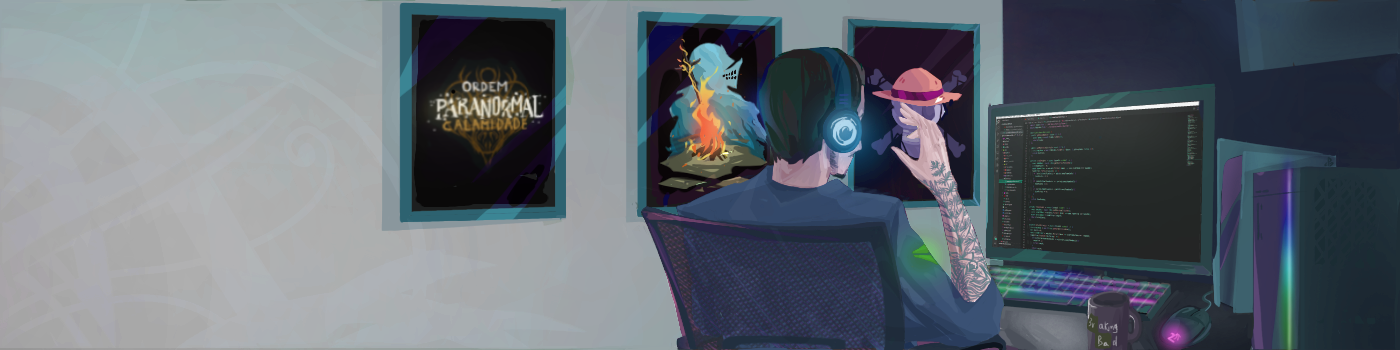
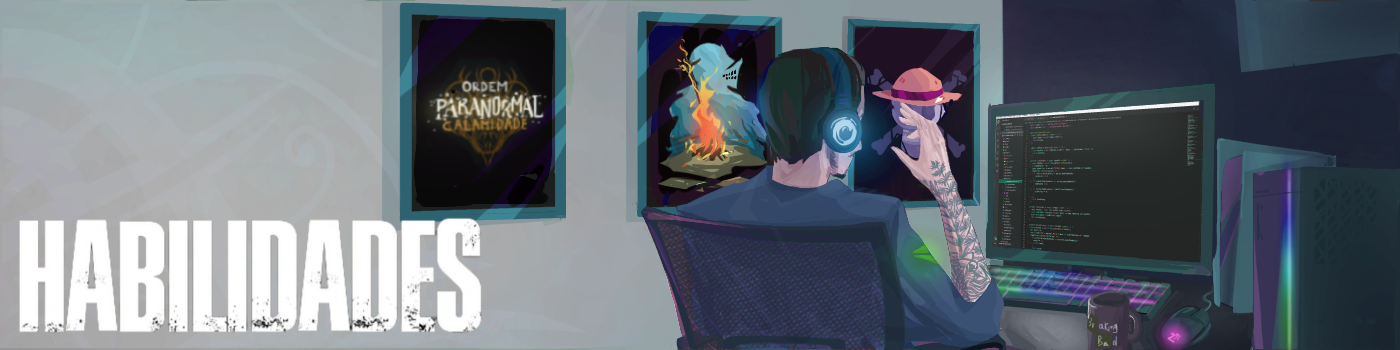
Alteração de titulos e navbar para inglês

Changed region(s): [[0.0, 0.6, 0.3686, 0.9714]]

diff --git a/src/Components/SoftCards.jsx b/src/Components/SoftCards.jsx
@@ -1,56 +1,112 @@
-function SoftCards() {
+/* eslint-disable no-unused-vars */
+/* eslint-disable react/prop-types */
+function SoftCards({ language }) {
   return (
-    <section className="softSkills">
+    language === 'Portugues' ? (
+      <section className="softSkills">
 
-      <div className="softBack">
-        <h2 className="softSkill">Criatividade</h2>
-        <div className="softCard">
-          <p className="softText">
-            The Last of Us is a television series based on the
-            popular video game of the same name. It follows the
-            story of Joel and Ellie, two survivors of a
-            post-apocalyptic world ravaged by a deadly fungus
-            that turns people into zombies, as they navigate
-            through dangerous terrain and encounter other survivors.
+        <div className="softBack">
+          <h2 className="softSkill">Criatividade</h2>
+          <div className="softCard">
+            <p className="softText">
+              The Last of Us is a television series based on the
+              popular video game of the same name. It follows the
+              story of Joel and Ellie, two survivors of a
+              post-apocalyptic world ravaged by a deadly fungus
+              that turns people into zombies, as they navigate
+              through dangerous terrain and encounter other survivors.
 
-          </p>
+            </p>
+
+          </div>
 
         </div>
 
-      </div>
+        <div className="softBack">
+          <h2 className="softSkill">Comunicação</h2>
+          <div className="softCard">
+            <p className="softText">
+              The Last of Us is a television series based on the
+              popular video game of the same name. It follows the
+              story of Joel and Ellie, two survivors of a
+              post-apocalyptic world ravaged by a deadly fungus
+              that turns people into zombies, as they navigate
+              through dangerous terrain and encounter other survivors.
 
-      <div className="softBack">
-        <h2 className="softSkill">Comunicação</h2>
-        <div className="softCard">
-          <p className="softText">
-            The Last of Us is a television series based on the
-            popular video game of the same name. It follows the
-            story of Joel and Ellie, two survivors of a
-            post-apocalyptic world ravaged by a deadly fungus
-            that turns people into zombies, as they navigate
-            through dangerous terrain and encounter other survivors.
+            </p>
+          </div>
 
-          </p>
         </div>
 
-      </div>
+        <div className="softBack">
+          <h2 className="softSkill">Curva De Aprendizado</h2>
+          <div className="softCard">
+            <p className="softText">
+              The Last of Us is a television series based on the
+              popular video game of the same name. It follows the
+              story of Joel and Ellie, two survivors of a
+              post-apocalyptic world ravaged by a deadly fungus
+              that turns people into zombies, as they navigate
+              through dangerous terrain and encounter other survivors.
 
-      <div className="softBack">
-        <h2 className="softSkill">Curva De Aprendizado</h2>
-        <div className="softCard">
-          <p className="softText">
-            The Last of Us is a television series based on the
-            popular video game of the same name. It follows the
-            story of Joel and Ellie, two survivors of a
-            post-apocalyptic world ravaged by a deadly fungus
-            that turns people into zombies, as they navigate
-            through dangerous terrain and encounter other survivors.
-
-          </p>
+            </p>
+          </div>
         </div>
-      </div>
 
-    </section>
+      </section>
+    ) : (
+      <section className="softSkills">
+
+        <div className="softBack">
+          <h2 className="softSkill">Criativity</h2>
+          <div className="softCard">
+            <p className="softText">
+              The Last of Us is a television series based on the
+              popular video game of the same name. It follows the
+              story of Joel and Ellie, two survivors of a
+              post-apocalyptic world ravaged by a deadly fungus
+              that turns people into zombies, as they navigate
+              through dangerous terrain and encounter other survivors.
+
+            </p>
+
+          </div>
+
+        </div>
+
+        <div className="softBack">
+          <h2 className="softSkill">Comunication</h2>
+          <div className="softCard">
+            <p className="softText">
+              The Last of Us is a television series based on the
+              popular video game of the same name. It follows the
+              story of Joel and Ellie, two survivors of a
+              post-apocalyptic world ravaged by a deadly fungus
+              that turns people into zombies, as they navigate
+              through dangerous terrain and encounter other survivors.
+
+            </p>
+          </div>
+
+        </div>
+
+        <div className="softBack">
+          <h2 className="softSkill">Learning Curve</h2>
+          <div className="softCard">
+            <p className="softText">
+              The Last of Us is a television series based on the
+              popular video game of the same name. It follows the
+              story of Joel and Ellie, two survivors of a
+              post-apocalyptic world ravaged by a deadly fungus
+              that turns people into zombies, as they navigate
+              through dangerous terrain and encounter other survivors.
+
+            </p>
+          </div>
+        </div>
+
+      </section>
+    )
   );
 }
 

diff --git a/src/Components/NavBar.jsx b/src/Components/NavBar.jsx
@@ -1,8 +1,9 @@
+/* eslint-disable react/prop-types */
 import React, { useState } from 'react';
 import Brasil from '../Assets/Brasil.png';
 import EUA from '../Assets/EUA.png';
 
-function NavBar() {
+function NavBar({ onClick }) {
   const [filterBrasil, setFilterBrasil] = useState('noFilter');
   const [filterEUA, setFilterEUA] = useState('Filter');
 
@@ -10,9 +11,11 @@ function NavBar() {
     if (target.alt === 'Brasil') {
       setFilterBrasil('noFilter');
       setFilterEUA('Filter');
+      onClick('Portugues');
     } else {
       setFilterBrasil('Filter');
       setFilterEUA('noFilter');
+      onClick('Ingles');
     }
   };
 
@@ -33,19 +36,23 @@ function NavBar() {
 
       <div className="links">
         <a className="navLink" href="#About">
-          <span className="hover-underline-animation"> Sobre Mim </span>
+          {filterBrasil === 'noFilter' ? <span className="hover-underline-animation"> Sobre Mim </span>
+            : <span className="hover-underline-animation"> About Me </span> }
 
         </a>
         <a className="navLink" href="#Skills">
-          <span className="hover-underline-animation"> Habilidades </span>
+          {filterBrasil === 'noFilter' ? <span className="hover-underline-animation"> Habilidades </span>
+            : <span className="hover-underline-animation"> Skills </span>}
 
         </a>
         <a className="navLink" href="#Projects">
-          <span className="hover-underline-animation"> Projetos </span>
+          {filterBrasil === 'noFilter' ? <span className="hover-underline-animation"> Projetos </span>
+            : <span className="hover-underline-animation"> Projects </span>}
 
         </a>
         <a className="navLink" href="#Contact">
-          <span className="hover-underline-animation"> Contato </span>
+          {filterBrasil === 'noFilter' ? <span className="hover-underline-animation"> Contato </span>
+            : <span className="hover-underline-animation"> Contact </span>}
 
         </a>
 

diff --git a/src/Components/Contact.jsx b/src/Components/Contact.jsx
@@ -1,12 +1,15 @@
+/* eslint-disable react/prop-types */
 import Contato from '../Assets/Contato.png';
+import ContactName from '../AssetsENG/Contact.png';
 import SocialMedia from './SocialMedia';
 
-function Contact() {
+function Contact({ language }) {
   return (
     <div id="Contact" className="contactPage">
 
       <div className="contactName">
-        <img alt="Contato" src={Contato} />
+        {language === 'Portugues' ? <img alt="Contato" src={Contato} />
+          : <img alt="Contato" src={ContactName} />}
 
       </div>
 
@@ -26,7 +29,8 @@ function Contact() {
 
       <footer className="references">
         {' '}
-        <h3 className="references">Icones:</h3>
+        {language === 'Portugues' ? <h3 className="references">Icones:</h3>
+          : <h3 className="references">Icons:</h3>}
         <a className="flaticon" href="https://www.flaticon.com/free-icons/react" title="react icons">React icons created by Freepik - Flaticon</a>
 
       </footer>

diff --git a/src/Components/Skills.jsx b/src/Components/Skills.jsx
@@ -1,24 +1,23 @@
+/* eslint-disable react/prop-types */
 import Art from '../Assets/Art.png';
-import Habilidades from '../Assets/Habilidades.png';
-// import Icons from './Icons';
+import ArtENG from '../AssetsENG/ArtENG.png';
 import IconsMap from './IconsMap';
 import SoftCards from './SoftCards';
 
-function Skills() {
+function Skills({ language }) {
   return (
     <div id="Skills" className="skillsPage">
       <section className="artSection">
 
         <div className="artDiv">
-          <img className="art" alt="Uma arte personalizada" src={Art} />
+          {language === 'Portugues' ? <img className="art" alt="Uma arte personalizada" src={Art} />
+            : <img className="art" alt="Uma arte personalizada" src={ArtENG} /> }
         </div>
-
-        <img className="skillName" alt="Habilidades" src={Habilidades} />
 
       </section>
 
       <IconsMap />
-      <SoftCards />
+      <SoftCards language={language} />
     </div>
   );
 }

diff --git a/src/Components/About.jsx b/src/Components/About.jsx
@@ -1,11 +1,12 @@
+/* eslint-disable react/prop-types */
 import Name from '../Assets/Name.png';
 import DesenvolvedorBR from '../Assets/DesenvolvedorBR.png';
-
+import WebDeveloper from '../AssetsENG/WebDeveloper.png';
 import tattoo from '../Assets/tattoo.png';
 import Me from '../Assets/Me.webp';
 import SocialMedia from './SocialMedia';
 
-function About() {
+function About({ language }) {
   return (
     <main id="About" className="aboutPage">
       <section className="aboutMe">
@@ -14,7 +15,8 @@ function About() {
 
         <br />
 
-        <img className="myRole" alt="Desenvolvedor Web" src={DesenvolvedorBR} />
+        {language === 'Portugues' ? <img className="myRole" alt="Desenvolvedor Web" src={DesenvolvedorBR} />
+          : <img className="myRoleENG" alt="Desenvolvedor Web" src={WebDeveloper} />}
 
         <p className="textAboutMe">
           The Last of Us is a television series based on the

diff --git a/src/Components/Projects.jsx b/src/Components/Projects.jsx
@@ -1,9 +1,11 @@
+/* eslint-disable react/prop-types */
 import { useState } from 'react';
 import Projetos from '../Assets/Projetos.png';
+import Project from '../AssetsENG/Projects.png';
 import arrow from '../Assets/arrow.png';
 import Baratiê from '../Images/Baratiê.png';
 
-function Projects() {
+function Projects({ language }) {
   const [filter, setFilter] = useState('projectImage');
   const [infoFilter, setInfoFilter] = useState('projectInfos');
 
@@ -20,7 +22,8 @@ function Projects() {
     <div id="Projects" className="projectsPage">
 
       <div className="projectsName">
-        <img className="projectsName" alt="Projetos" src={Projetos} />
+        {language === 'Portugues' ? <img className="projectsName" alt="Projetos" src={Projetos} />
+          : <img className="projectsName" alt="Projetos" src={Project} />}
       </div>
 
       <div className="projectsDiv">

diff --git a/src/Pages/Home.jsx b/src/Pages/Home.jsx
@@ -1,4 +1,4 @@
-import React from 'react';
+import React, { useState } from 'react';
 import About from '../Components/About';
 import Contact from '../Components/Contact';
 import NavBar from '../Components/NavBar';
@@ -6,13 +6,18 @@ import Projects from '../Components/Projects';
 import Skills from '../Components/Skills';
 
 function Home() {
+  const [language, setLanguage] = useState('Portugues');
+
+  const changeLanguage = (lang) => {
+    setLanguage(lang);
+  };
   return (
     <div>
-      <NavBar />
-      <About />
-      <Skills />
-      <Projects />
-      <Contact />
+      <NavBar onClick={changeLanguage} />
+      <About language={language} />
+      <Skills language={language} />
+      <Projects language={language} />
+      <Contact language={language} />
 
     </div>
   );

diff --git a/src/CSS/About.css b/src/CSS/About.css
@@ -22,6 +22,11 @@
     width: 316px;
     height: 39px;   
 }
+.myRoleENG {
+    margin-left: 40px;
+    width: 250px;
+    height: 39px;   
+}
 
 .textAboutMe {
     margin-left: 50px;

diff --git a/src/CSS/Skills.css b/src/CSS/Skills.css
@@ -23,6 +23,8 @@
     height: 350px;
 
     background-color: white;
+
+    margin-bottom: 140px;
 }
 
 .art {
